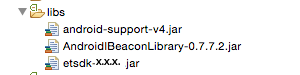
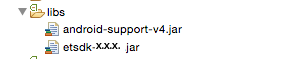
More 7.2 Fixes Per Chris Keaney

Changed region(s): [[0.15, 0.5067, 0.81, 0.72], [0.09, 0.7467, 0.48, 0.9333], [0.09, 0.96, 0.15, 1.0]]

diff --git a/_posts/2015-05-15-implement-sdk-eclipse.md b/_posts/2015-05-15-implement-sdk-eclipse.md
@@ -9,12 +9,12 @@ order: 3
 
 Follow these Eclipse specific techniques to bootstrap the SDK to your Mobile app using the Eclipse IDE.
 
-1.  Copy the <a href="https://github.com/ExactTarget/JB4A-SDK-Android/blob/master/JB4A-SDK/etsdk-4.0.6.jar?raw=true" target="_blank">etsdk-4.0.6.jar</a> into the `{project root}/libs` folder for your project.
+1.  Copy the <a href="https://github.com/ExactTarget/JB4A-SDK-Android/blob/master/JB4A-SDK/etsdk-4.1.0.jar?raw=true" target="_blank">etsdk-4.1.0.jar</a> into the `{project root}/libs` folder for your project.
 
 1.  Copy additional dependency jars from the SDK Explorer project found <a href="https://github.com/ExactTarget/JB4A-SDK-Android/tree/master/JB4A-SDK-Explorer/eclipse-build-google/libs" target="_blank">HERE</a>. Your final libs folder should resemble this sample where x.x.x is the version you are using:<br/>
     <img class="img-responsive" src="{{ site.baseurl }}/assets/eclipse-libs.png" />
 
-1.  You must copy the Android Beacon dependency from the SDK Explorer project found <a href="https://github.com/ExactTarget/JB4A-SDK-Android/tree/master/JB4A-SDK-Explorer/eclipse-build-google/libs" target="_blank">HERE</a>. This dependency is required for applications that will run on devices with Android OS < 5.x (Lollipop). Your final libs folder should resemble this sample where x.x.x is the version you are using:<br/>
+1.  Beacon beta testers ONLY must copy the Android Beacon dependency from the SDK Explorer project found <a href="https://github.com/ExactTarget/JB4A-SDK-Android/tree/master/JB4A-SDK-Explorer/eclipse-build-google/libs" target="_blank">HERE</a>.  This dependency is required for applications that will run on devices with Android OS < 5.x (Lollipop). Your final libs folder should resemble this sample where x.x.x is the version you are using:<br/>
     <img class="img-responsive" src="{{ site.baseurl }}/assets/eclipse-libs-location.png" />
 
     > Failure to add this dependency will result in the following crash in your app for devices running Android OS < 5.0 (Lollipop): 

diff --git a/_posts/2015-06-08-implement-sdk-google.md b/_posts/2015-06-08-implement-sdk-google.md
@@ -31,11 +31,11 @@ The JB4A Android SDK is compatible with Android API versions 10 (Gingerbread) or
     ~~~
     dependencies {
       // ET SDK
-      compile 'com.exacttarget.etpushsdk:etsdk:4.0.6@aar'
+      compile 'com.exacttarget.etpushsdk:etsdk:4.1.0@aar'
 
       // Google Play Services for Location and Google Cloud Messaging
-      compile 'com.google.android.gms:play-services-location:7.5.0'
-      compile 'com.google.android.gms:play-services-gcm:7.5.0'
+      compile 'com.google.android.gms:play-services-location:7.8.0'
+      compile 'com.google.android.gms:play-services-gcm:7.8.0'
 
       // Google's Support v4 for Notification compatibility
       compile 'com.android.support:support-v4:22.2.0'
